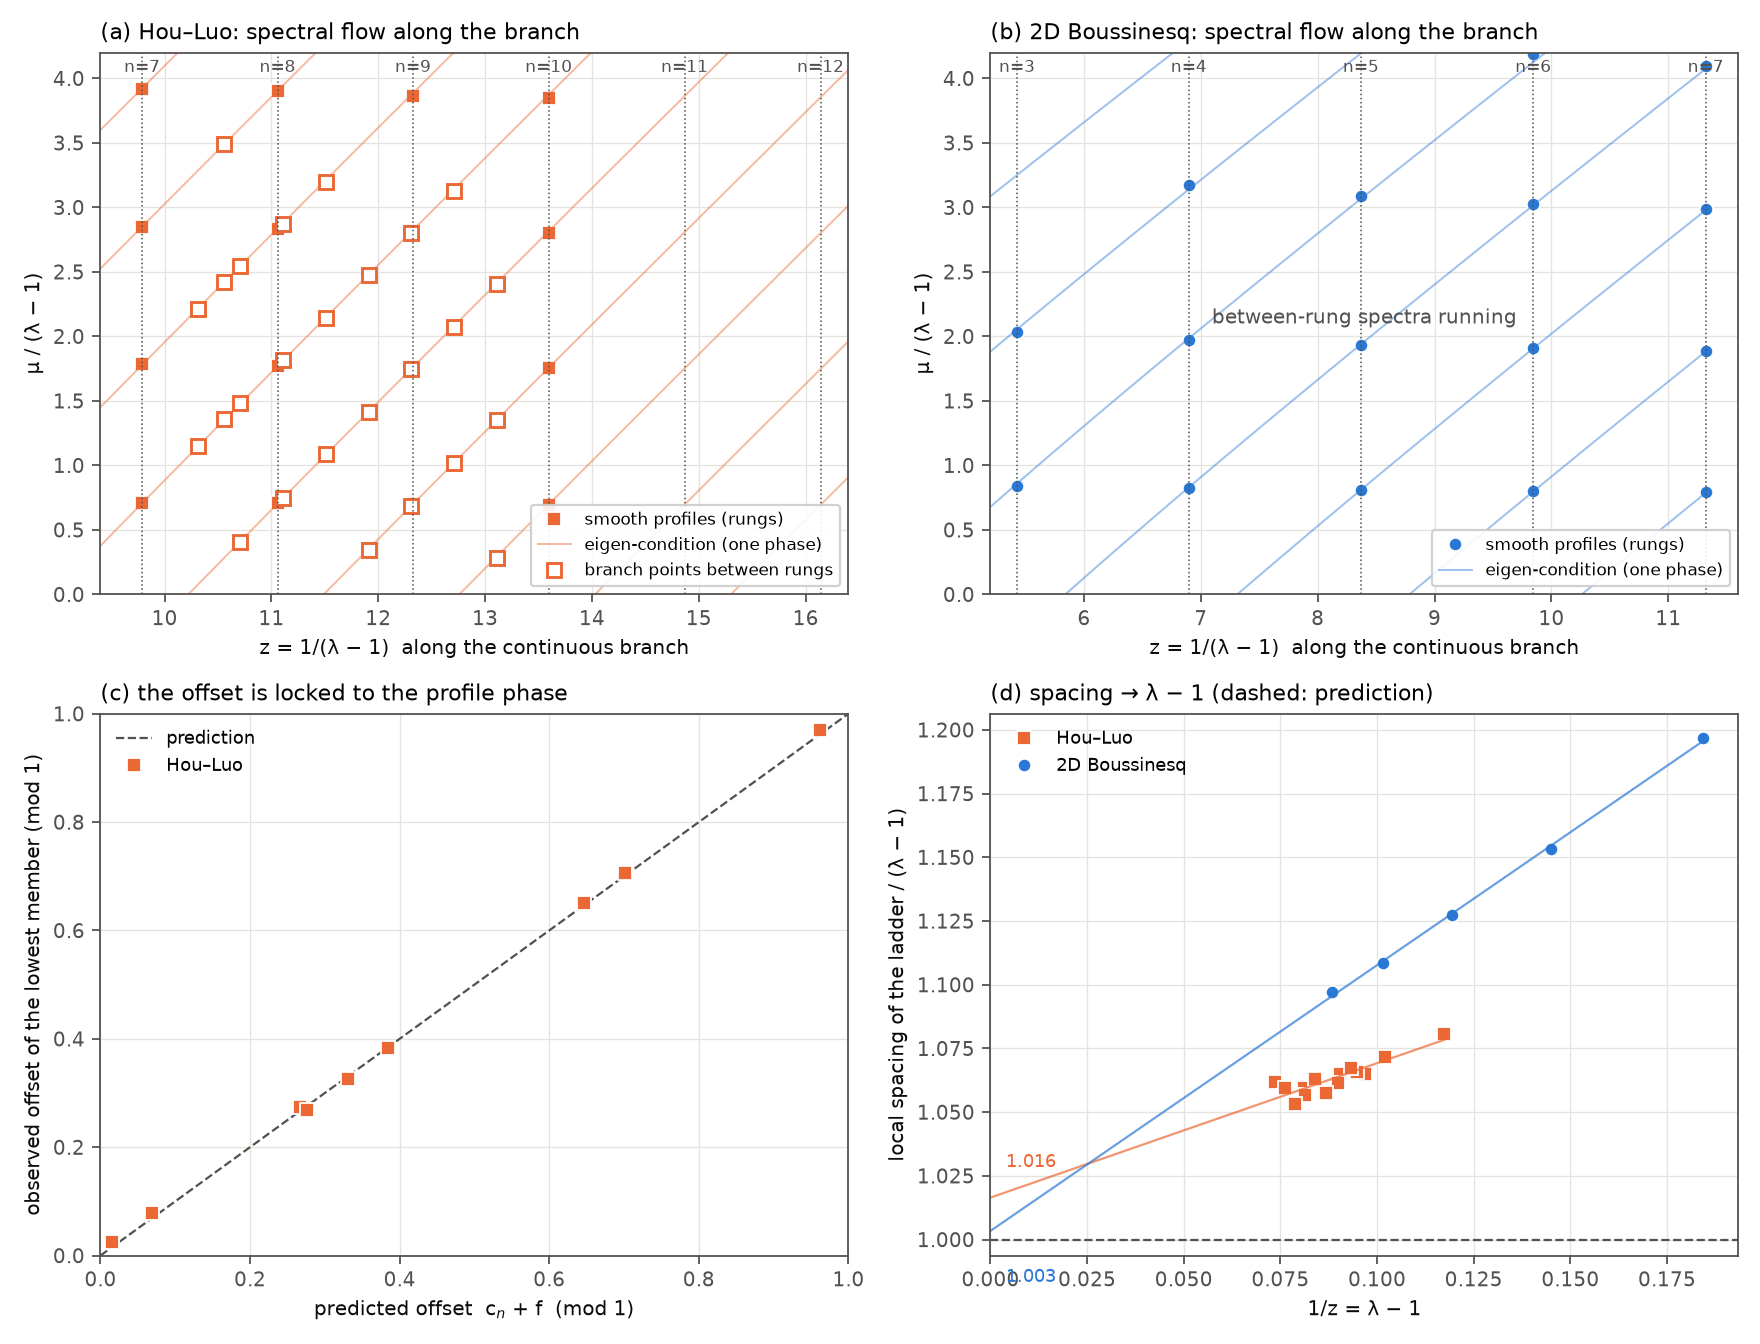
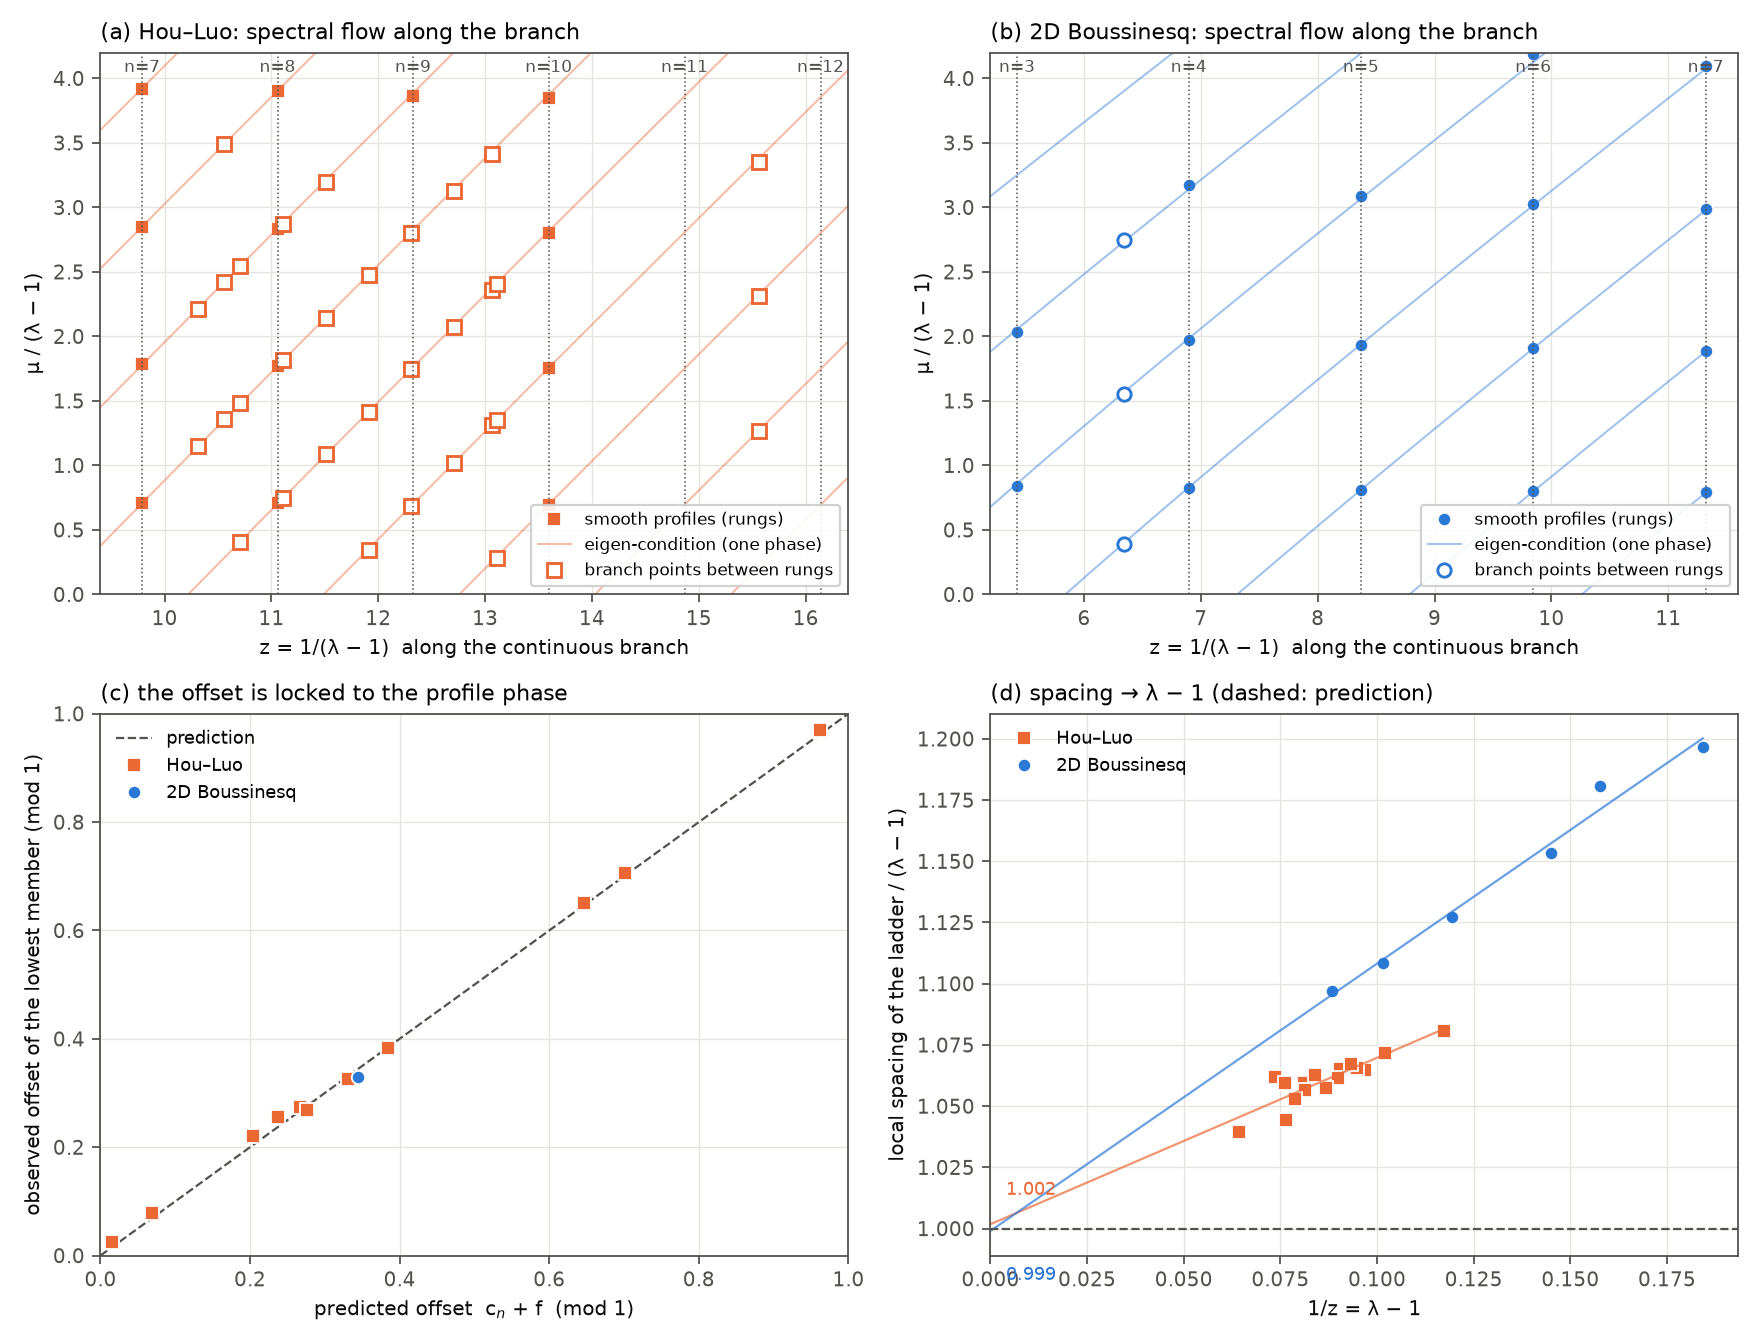
P03: n=7 grid variant (7.973 zeros): exactly n restored for 2D n <= 7; first 2D between-rung spectrum confirms phase locking
- C7 (hs=0.0125, s_start=-30) 7.973 zeros; with B5/B6/C6 all n=5-7 counts are
  stable under domain and grid changes, so rung n has exactly n (real) unstable
  eigenvalues for 0 <= n <= 7 (manuscript, dossier, response updated)
- 2D branch point z=6.35 (63% from rung 3 to 4): ladder climbed by 0.71
  (predicted 0.74), new member entered at 0.388 (predicted 0.40)

Claude-Session: https://claude.ai/code/session_019Uaxwtm17foVxpyvRRENv5

diff --git a/dossier/P03_MANUSCRIPT_DRAFT.md b/dossier/P03_MANUSCRIPT_DRAFT.md
@@ -13,7 +13,8 @@ known hierarchy to instability index seven.
   For five of them the agreement is better than 1e-6.
 - Two independent linearizations recover the successive instability structure: the n-th profile has n resolved
   real unstable modes (n = 0,…,7).
-- Right-half-plane eigenvalue counts find no further, oscillatory instabilities.
+- Right-half-plane eigenvalue counts, stable under domain and grid changes, find no further, oscillatory
+  instabilities. So the index is exactly n.
 
 **Structure.**
 - The discrete smooth profiles lie on a continuous branch of generically singular self-similar solutions. They are
@@ -37,7 +38,7 @@ Córdoba–Córdoba–Fontelos model, by contrast, the cusp forms at a finite λ
 ## 0. What is established, supported, predicted, and not proved
 | level | statement |
 |---|---|
-| **Numerically established** | 8 Boussinesq rungs λ₀…λ₇, found by one solver and reproduced by an independent one. Rung n has n resolved real unstable modes, and these eigenvalues are reproduced by an independent linearization. Right-half-plane counts give exactly n unstable eigenvalues for n ≤ 7 (2D) and n ≤ 10 (Hou–Luo). |
+| **Numerically established** | 8 Boussinesq rungs λ₀…λ₇, found by one solver and reproduced by an independent one. Rung n has exactly n unstable eigenvalues, all real, for 0 ≤ n ≤ 7. The real modes are reproduced by an independent linearization, and right-half-plane counts are unchanged under changes of origin truncation, contour and grid (n = 5–7). In Hou–Luo the index is n for n ≤ 10. Along the continuous branch the unstable ladder moves with the profile phase (Hou–Luo; 2D at the branch points computed). |
 | **Strongly supported** | A continuous branch of generically singular (least-singular) profiles; the smooth profiles are its regularity-selected points. |
 | **Asymptotically predicted (formal)** | An unbounded phase Φ ∼ C/(λ−1) with C > 0, the quantization Re Φ(λ_n) = nπ + δ + o(1), and an infinite ladder accumulating at λ = 1. The eigen-condition Re Φ(λ) − πμ/(λ−1) + θ₀ = (k + ½)π for the unstable spectrum, with its consequences: unit spacing, phase-locked offset, and index = number of half-turns of Φ. |
 | **Not proved** | Infinitely many smooth Boussinesq profiles. C > 0 for the 2D reduction (proved only for the Hou–Luo local root; checked pointwise in 2D). The value of the asymptotic spacing. The offsets c of the instability ladder. |
@@ -84,7 +85,8 @@ the 28th, λ₇'s lowest (0.0699), is confirmed by linearization A with two orig
 - 2D: n + 1 zeros (the trivial time-translation mode included) for every n ≤ 7.
 - Domain variants agree: moving the origin truncation from −20 to −30 and the contour's left edge from 0.06 to
   0.075/0.07 gives 5.954 (n = 5, against 5.952) and 6.945 (n = 6, against 6.942).
-- Grid variant for n = 6 (hs = 0.0125): 7.003. Grid variant for n = 7: ⟨running⟩.
+- Grid variants (hs = 0.0125) agree: 7.003 (n = 6) and 7.973 (n = 7, against 7.921).
+- Hence rung n has exactly n unstable eigenvalues, all real, for 0 ≤ n ≤ 7.
 
 **Hou–Luo, as a control.**
 - Eleven rungs, each with exactly n unstable eigenvalues.

diff --git a/dossier/P03_DOSSIER.md b/dossier/P03_DOSSIER.md
@@ -20,7 +20,7 @@ stagnation point. The smooth profiles are the regularity resonances m(λ) = 2.
 **Evidence hierarchy (use exactly this in any text).**
 | level | statement |
 |---|---|
-| Numerically established | 8 Boussinesq rungs λ₀…λ₇, reproduced by two independent solvers. Rung n has n resolved real unstable modes, and the eigenvalues are reproduced by two independent linearisations. |
+| Numerically established | 8 Boussinesq rungs λ₀…λ₇, reproduced by two independent solvers. Rung n has exactly n unstable eigenvalues, all real (0 ≤ n ≤ 7): resolved real modes reproduced by two independent linearisations, and right-half-plane counts stable under domain and grid changes. Along the continuous branch the unstable ladder moves with the profile phase. |
 | Strongly supported | A continuous branch of generically singular (least-singular) profiles. The smooth profiles are its regularity-selected points, m(λ) = 2. |
 | Asymptotically predicted (formal) | Unbounded phase Φ ~ C/(λ−1) with C > 0, phase quantisation, and an infinite Boussinesq ladder accumulating at λ = 1. |
 | Not proved | Infinitely many smooth Boussinesq profiles; C > 0 for the full 2D reduction (it is proved only for the Hou–Luo local root; in 2D it is checked pointwise); the offsets of the instability ladder (the index n itself follows formally from the eigen-condition of claim 9 once it is fixed at one rung, and is confirmed numerically by the counts). |
@@ -48,7 +48,8 @@ stagnation point. The smooth profiles are the regularity resonances m(λ) = 2.
    - Right-half-plane counts (argument principle, trivial zero included) give n + 1 zeros for every n ≤ 7:
      1.997, 3.000, 4.000, 5.000, 5.952, 6.942, 7.921. So the index is exactly n in the box, with all modes real.
      Domain variants agree: 5.954 (n = 5) and 6.945 (n = 6) with origin truncation −30 and a moved contour. The grid
-     variant for n = 6 (hs = 0.0125) gives 7.003; the grid variant for n = 7 is running.
+     variants (hs = 0.0125) give 7.003 (n = 6) and 7.973 (n = 7). So the index is exactly n, with all modes real, for
+     0 ≤ n ≤ 7, stable under domain and grid changes.
    - In Hou–Luo (11 rungs) the count is exactly n for n ≤ 10, with domain variants agreeing. All modes are real for
      n ≤ 7; from n = 8 on, weakly oscillatory complex pairs appear at the top of the unstable spectrum
      (0.587 ± 0.022i at n = 8). "Real" is therefore not guaranteed at higher n, while the total index stays n.

diff --git a/programs/P03_boussinesq_ladder/INSTABILITY_LADDER.md b/programs/P03_boussinesq_ladder/INSTABILITY_LADDER.md
@@ -20,7 +20,7 @@ The counts include the trivial time-translation zero μ = 1, so the expected val
 | 6 | B: 0.025, −30, [0.07,1.5]×[−1.5,1.5] | 6.945 | 7 |
 | 6 | C: 0.0125, −20, [0.065,1.2]×[−0.8,0.8] | 7.003 | 7 |
 | 7 | A: 0.025, −30, [0.05,1.5]×[−1.5,1.5] | 7.921 | 8 |
-| 7 | C: 0.0125, −30, [0.055,1.2]×[−0.8,0.8] | ⟨running⟩ | 8 |
+| 7 | C: 0.0125, −30, [0.055,1.2]×[−0.8,0.8] | 7.973 | 8 |
 
 Deviations from an integer (≤ 0.08) come from eigenvalue swaps at the truncation of the top-k set. At the
 unresolved steps the smallest |1 − ν| is ≥ 0.12, so no zero lies near the contour.
@@ -35,7 +35,8 @@ Variants:
 - Grid N = 65536 (profiles re-converged, |m − 2| ≤ 6e-11; η₀ = −30): 9.000 (n = 8) and 10.989 (n = 10).
 
 **Result.** In the rectangle, the n-th profile has exactly n unstable eigenvalues: n ≤ 7 in 2D and n ≤ 10 in
-Hou–Luo. The strip 0 < Re μ < x_lo (0.03–0.075) is not counted. There the origin truncation produces a spurious
+Hou–Luo. For 2D n = 5–7 the count is unchanged under a deeper origin truncation with a moved contour (B) and under
+grid refinement hs 0.025 → 0.0125 (C). The strip 0 < Re μ < x_lo (0.03–0.075) is not counted. There the origin truncation produces a spurious
 crossing at μ ≈ 0.6/|s_start| that moves when the truncation is moved (§4).
 
 ## 2. Real versus complex

diff --git a/dossier/P03_RESPONSE_TO_REVIEW.md b/dossier/P03_RESPONSE_TO_REVIEW.md
@@ -104,7 +104,9 @@ The earlier "≈ 1.50" came from a single front cut-off (the cut-off study is in
 - Complete right-half-plane counts now exist for n = 5, 6, 7 (`stab_contour2.py`, k = 16, adaptive):
   5.952, 6.942, 7.921 zeros, i.e. n + 1 including the trivial mode. No oscillatory unstable spectrum was found.
 - Domain variants (origin truncation −30, contour moved to x_lo = 0.075/0.07) give 5.954 (n = 5) and 6.945 (n = 6),
-  against 5.952 and 6.942. The grid variant (hs = 0.0125) for n = 6 gives 7.003. The grid variant for n = 7 is ⟨running⟩.
+  against 5.952 and 6.942. The grid variants (hs = 0.0125) give 7.003 (n = 6) and 7.973 (n = 7).
+- As you proposed, "exactly n" is therefore restored as a numerical statement: rung n has exactly n unstable
+  eigenvalues, all real, for 0 ≤ n ≤ 7.
 - A control with 11 rungs of the Hou–Luo model (`hl_stability.py`) gives exactly n unstable eigenvalues for
   n = 0…10, unchanged under a domain change. There, complex pairs appear from n = 8 while the total stays n. This
   is exactly why "real" and "exactly n" must be claimed separately.
